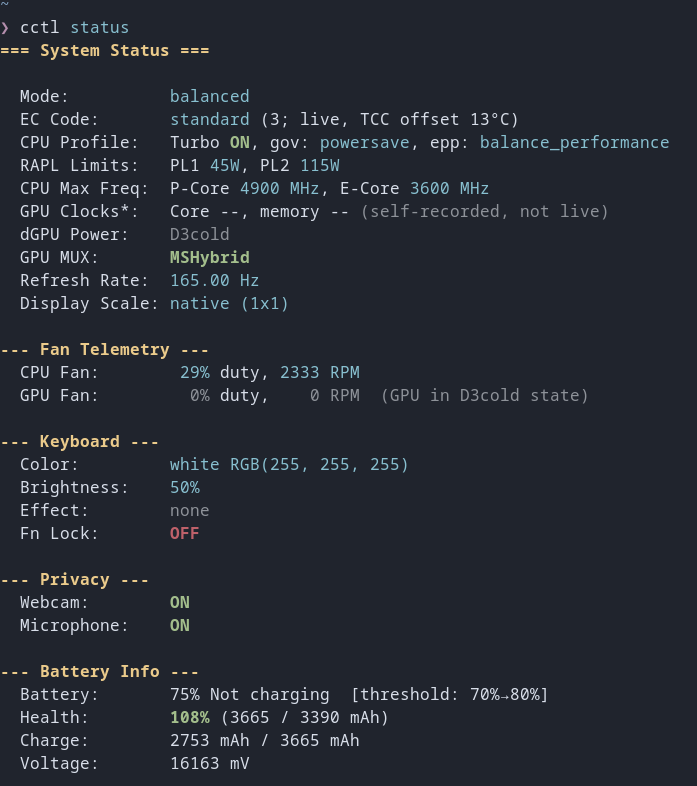
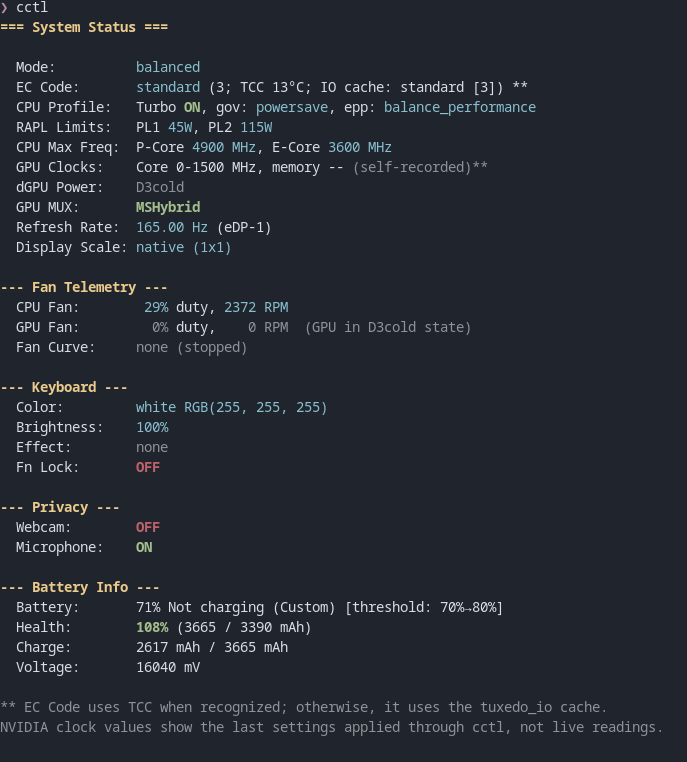
Finalize v4.8 release and polish status docs

diff --git a/README.md b/README.md
@@ -156,7 +156,7 @@ how to choose profile settings and includes examples and safety limits.
 
 Command names:
 - Profiles and setup: `set`, `editconf`, `install`, `uninstall`, `drivers-manage`
-- Keyboard and fans: `kbc`, `kbb`, `kbe`, `fn`, `fan`, `fancurve`
+- Keyboard and fans: `kbc`, `kbb`, `kbe`, `kbn`, `fn`, `fan`, `fancurve`
 - GPU and privacy: `mux`, `nvidia clock`, `nvidia memclock`, `webcam`, `mic`
 - Battery and system info: `bat`, `status`, `--version`
 - Monitors: `cpumon`, `gpumon`
@@ -175,12 +175,16 @@ Full usage, options, and hardware quirk notes: [commands.md](docs/commands.md).
 Most `cctl` commands apply a setting and exit; cctl has no tray app or general
 startup service. `cctl fancurve start <name>` is an exception: it starts a
 detached worker that runs the curve until stopped or the system shuts down.
+When a compatible login manager provides sleep notifications, the worker
+returns fan control to the laptop before sleep and resumes the curve after wake.
+If the wake notification is missed, it can resume curve control when a monitored
+temperature rises above 85 °C. See the [Fan Curves guide](docs/commands.md#fan-curves)
+for details.
 
 To restore saved settings at startup, save them with `cctl snap save <name>` and
 configure your service manager (for example, systemd or runit) to run
 `cctl snap restore <name>`. Snapshots do not include fan settings or active fan
-curves; fan curves do not start automatically at boot. See
-[Fan Curves](docs/commands.md#fan-curves) for usage and safety details.
+curves; fan curves do not start automatically at boot.
 
 > **Caution:** cctl writes the EC directly. Don't run TCC (`tccd`), NBFC, or
 > another Clevo fan daemon at the same time — they will fight over fan speed and

diff --git a/docs/developer-notes.md b/docs/developer-notes.md
@@ -22,6 +22,14 @@ otherwise, hardware observations refer to the tested Colorful Evol P15.
 
 ## EC Profiles, CPU Power, and Thermal Reporting
 
+### Custom profile editor elevation
+
+`cctl editconf` edits a private temporary copy as the invoking user. It saves
+through the `editconf __install` helper, which validates temporary-file owner
+and permissions before atomically replacing `/var/lib/cctl/profiles.conf`.
+This uses cctl's installed passwordless sudo rule instead of nested
+`sudoedit`/`install` commands that would prompt separately for a password.
+
 ### Live EC profile detection
 
 `cctl_live_ec_state()` reads the recognized TCC offset from processor thermal
